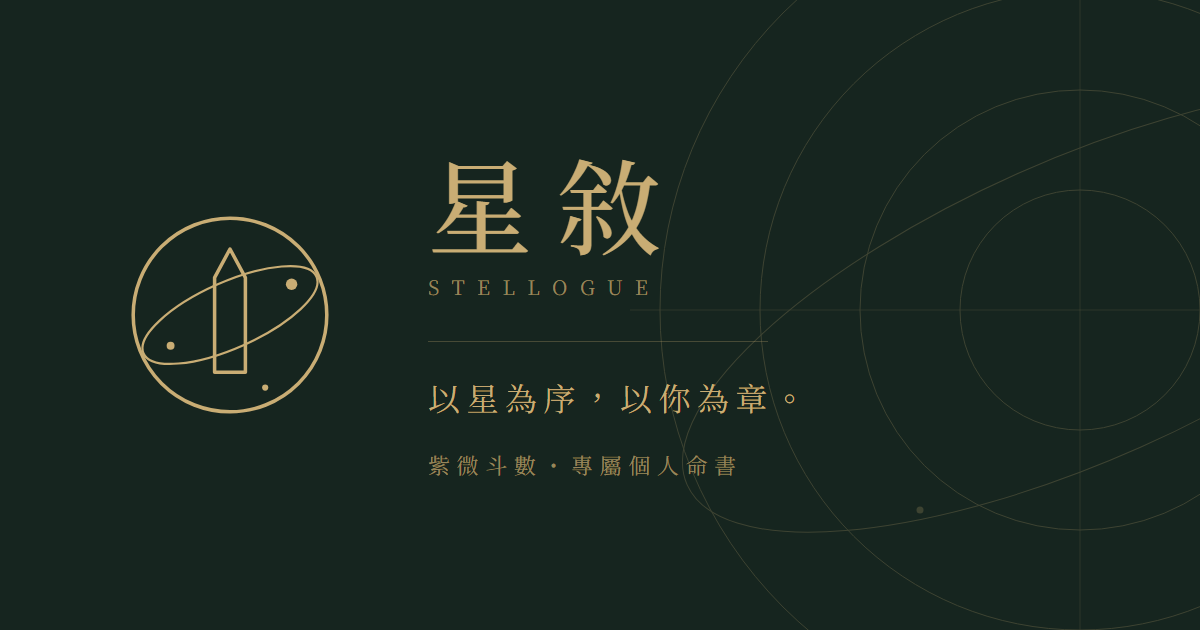
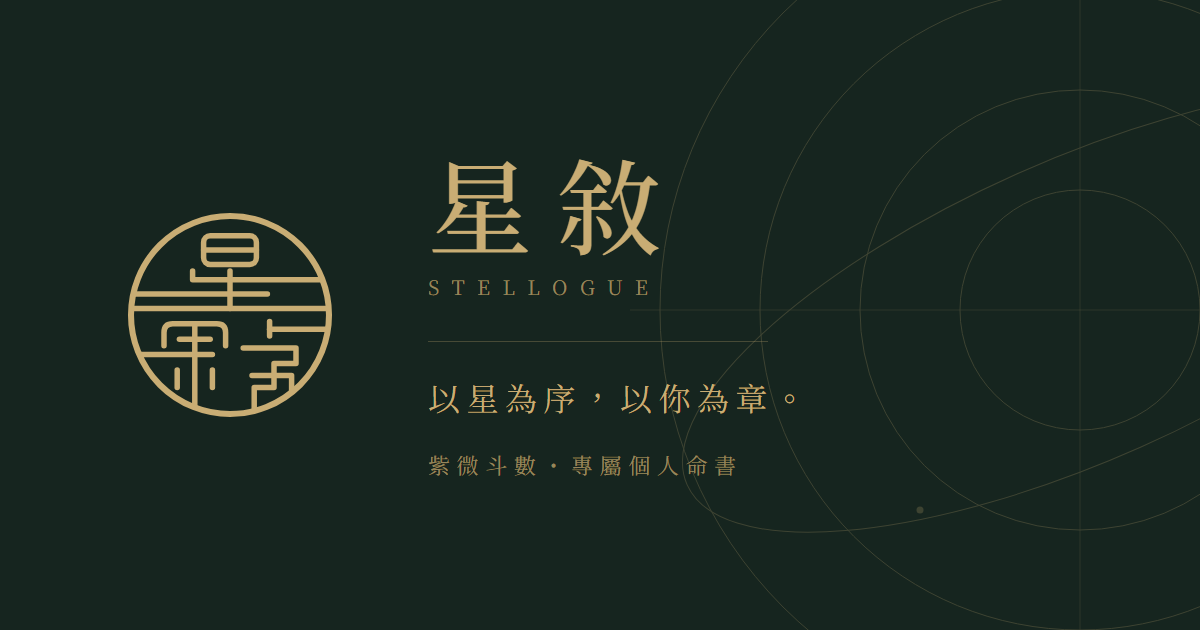
標誌換成「星敘」圓印
Issac 揀嘅方向：篆刻風格嘅線條字圓印（筆劃粗幼一致、全橫直線加細圓角、伸到貼住外圈）。
- BrandMark：圓 ＋ 書脊 → 「星敘」圓印；頂欄 34→40px、頁尾 28→32px（筆劃多，太細會糊）
- icon.svg：分頁圖示改成同款線條字嘅「星」（16px 放唔落兩個字同外圈）
- og.png：首頁分享圖左邊換全印（make-og-home.mjs 重新出圖）

Changed region(s): [[0.0925, 0.3317, 0.2775, 0.6635]]

diff --git a/apps/web/src/components/BrandMark.tsx b/apps/web/src/components/BrandMark.tsx
@@ -1,37 +1,63 @@
+import { useId } from 'react';
+
 /**
- * 星敘標誌（2026-10-04）：圓形星軌 ＋ 一條書脊。
+ * 星敘標誌（2026-11-15）：一枚圓印，入面係「星敘」兩個字。
  *
- * 外圈係天，斜嘅一圈係星軌，中間企住嗰條係一本書嘅書脊 —— 「以星為序，以你為章」。
- * 細線、`currentColor`：喺夜景上面跟住頁頂變燙金，喺紙上面變墨色。
- * 細過 24px（分頁圖示）就用 `small`：拎走星軌同細星，淨低圓、書脊、一粒星，唔會糊埋一舊。
+ * Issac 揀嘅方向：篆刻風格嘅線條字 —— 筆劃粗幼一致、全部橫線直線加細圓角，伸到貼住外圈先停。
+ * 上面「星」（日 ＋ 生），中間一條橫線分隔，下面「敘」（左余、右攴）。
+ * 「又」嗰兩筆用梯級折線砌出交叉：試過弧線同斜線，Issac 話破壞咗成個直線嘅感覺。
  *
- * ⚠ 呢個係過渡版本。正式標誌由設計師畫好之後，換走呢個檔入面嘅 path 就得，
- *    用到佢嘅地方唔使改。
+ * `currentColor`：喺夜景上面跟住頁頂變燙金，喺紙上面變墨色。
+ * 筆劃畫過界，再用圓形 clipPath 裁走，所以啲線係貼實外圈。
+ *
+ * ⚠ 個印永遠同「星敘 STELLOGUE」字樣一齊出現 —— 印章字本身唔求一眼讀得出。
+ * ⚠ 分頁圖示（`app/icon.svg`）仲係舊嘅圓 ＋ 書脊：16px 放唔落兩個字。
+ * `small` 留返做相容，而家冇分別。
  */
-export function BrandMark({ size = 32, small = false, className }: { size?: number; small?: boolean; className?: string }) {
+export function BrandMark({ size = 32, className }: { size?: number; small?: boolean; className?: string }) {
+  const clip = useId();
   return (
     <svg
       aria-hidden="true"
-      viewBox="0 0 100 100"
+      viewBox="0 0 200 200"
       width={size}
       height={size}
       fill="none"
       stroke="currentColor"
+      strokeWidth="6.5"
       strokeLinecap="round"
       strokeLinejoin="round"
       className={className}
     >
-      <circle cx="50" cy="50" r="44" strokeWidth={small ? 6 : 2.2} />
-      {small ? null : <ellipse cx="50" cy="50" rx="43" ry="15" strokeWidth="1.3" transform="rotate(-24 50 50)" />}
-      {/* 書脊：尖頂、直身 */}
-      <path d="M50 20 L57 33 L57 76 L43 76 L43 33 Z" strokeWidth={small ? 6 : 2.2} />
-      <circle cx="78" cy="36" r={small ? 7 : 3} fill="currentColor" stroke="none" />
-      {small ? null : (
-        <>
-          <circle cx="23" cy="64" r="2" fill="currentColor" stroke="none" />
-          <circle cx="66" cy="83" r="1.5" fill="currentColor" stroke="none" />
-        </>
-      )}
+      <defs>
+        <clipPath id={clip}>
+          <circle cx="100" cy="100" r="88" />
+        </clipPath>
+      </defs>
+      <g clipPath={`url(#${clip})`}>
+        {/* 星：日 */}
+        <rect x="76" y="28" width="48" height="26" rx="6" />
+        <path d="M76 41 L124 41" />
+        {/* 星：生（底下嗰一橫同時係兩個字之間嘅分隔線） */}
+        <path d="M66 60 L66 68 L200 68" />
+        <path d="M100 60 L100 94" />
+        <path d="M0 81 L134 81" />
+        <path d="M0 94 L200 94" />
+        {/* 敘：余 */}
+        <path d="M40 128 L40 116 Q40 108 48 108 L88 108 Q96 108 96 116 L96 128" />
+        <path d="M68 108 L68 200" />
+        <path d="M54 122 L82 122" />
+        <path d="M0 136 L84 136" />
+        <path d="M52 150 L52 166" />
+        <path d="M84 150 L84 166" />
+        {/* 敘：攴 —— 卜 */}
+        <path d="M136 106 L136 119" />
+        <path d="M136 113 L200 113" />
+        {/* 敘：攴 —— 又（梯級折線，兩筆喺中間交叉） */}
+        <path d="M112 130 L160 130 L160 144 L140 144 L140 166 L122 166 L122 200" />
+        <path d="M120 155 L156 155 L156 200" />
+      </g>
+      <circle cx="100" cy="100" r="90" strokeWidth="7" />
     </svg>
   );
 }

diff --git a/apps/web/src/components/SiteHeader.tsx b/apps/web/src/components/SiteHeader.tsx
@@ -83,7 +83,7 @@ export function SiteHeader() {
         <div className="dao-nei">
           <Link href="/" className="flex items-center gap-3 leading-none" aria-label={t('homeAria')}>
             {/* 星敘標誌（2026-10-04）：夜景上面燙金，紙上面跟墨色 */}
-            <BrandMark size={34} className={overNight ? 'text-gilt' : 'text-gold-ink'} />
+            <BrandMark size={40} className={overNight ? 'text-gilt' : 'text-gold-ink'} />
             <span className="flex flex-col">
               <span className="pin-tracking font-serif text-[1.375rem] font-medium md:text-[1.625rem] tracking-[0.32em]">{MARK}</span>
               <span className="pin-tracking mt-1.5 font-latin text-[0.625rem] tracking-[0.5em] opacity-80">{LATIN}</span>

diff --git a/apps/web/src/components/SiteFooter.tsx b/apps/web/src/components/SiteFooter.tsx
@@ -81,7 +81,7 @@ export function SiteFooter() {
         <div className="wei-shang">
           <div className="max-w-[22rem]">
             <Link href="/" className="inline-flex items-center gap-3 leading-none" aria-label={t('homeAria')}>
-              <BrandMark size={28} className={overNight ? 'text-gilt' : 'text-gold-ink'} />
+              <BrandMark size={32} className={overNight ? 'text-gilt' : 'text-gold-ink'} />
               <span className="flex flex-col">
                 <span className="pin-tracking font-serif text-[1.125rem] font-medium tracking-[0.32em]">{MARK}</span>
                 <span className="pin-tracking mt-1 font-latin text-[0.5625rem] tracking-[0.5em] opacity-80">{LATIN}</span>
